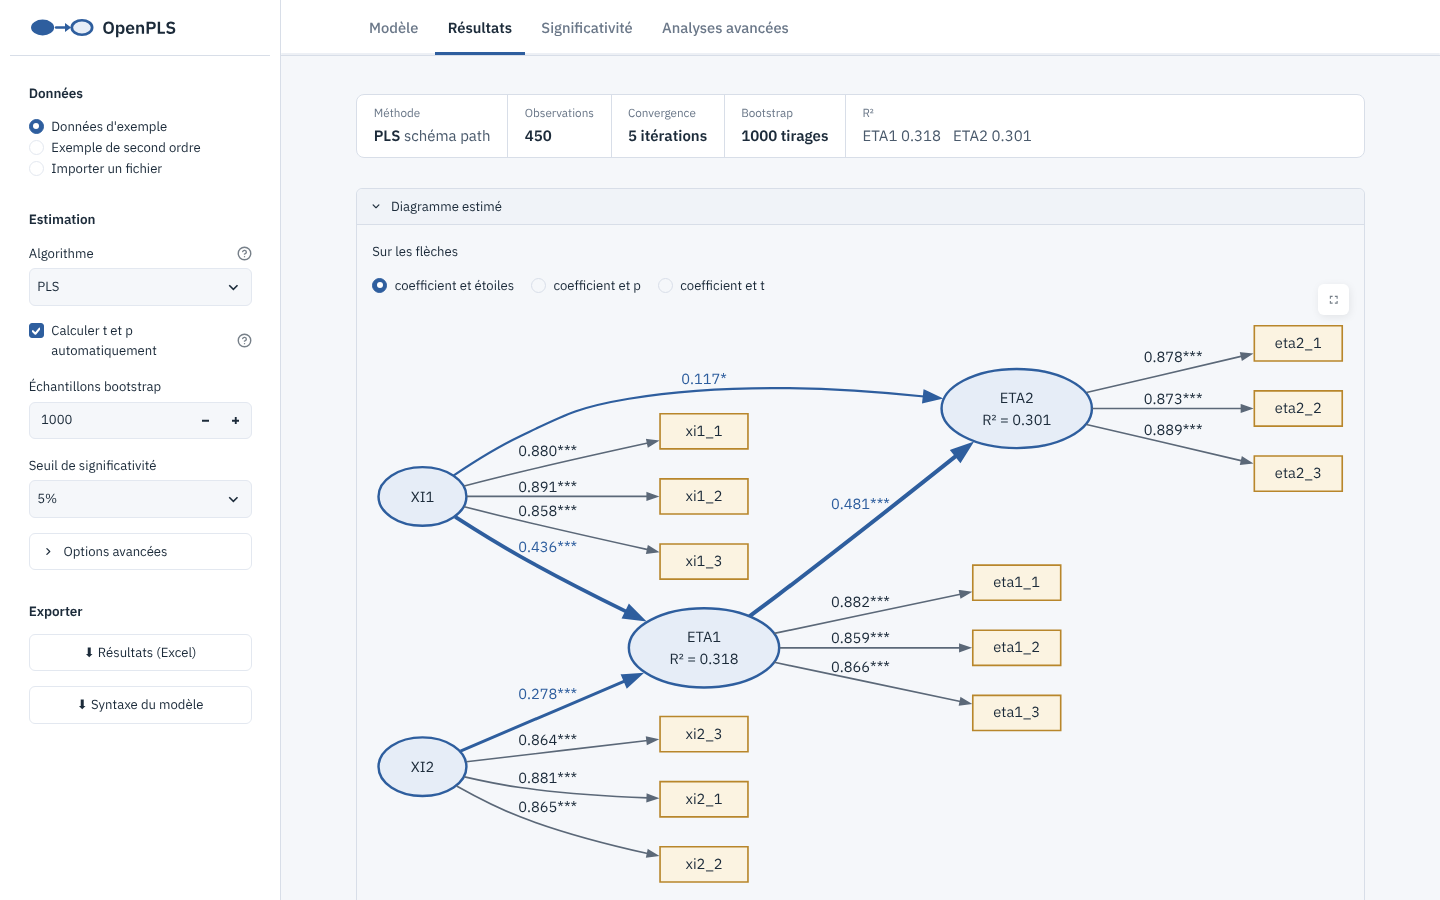
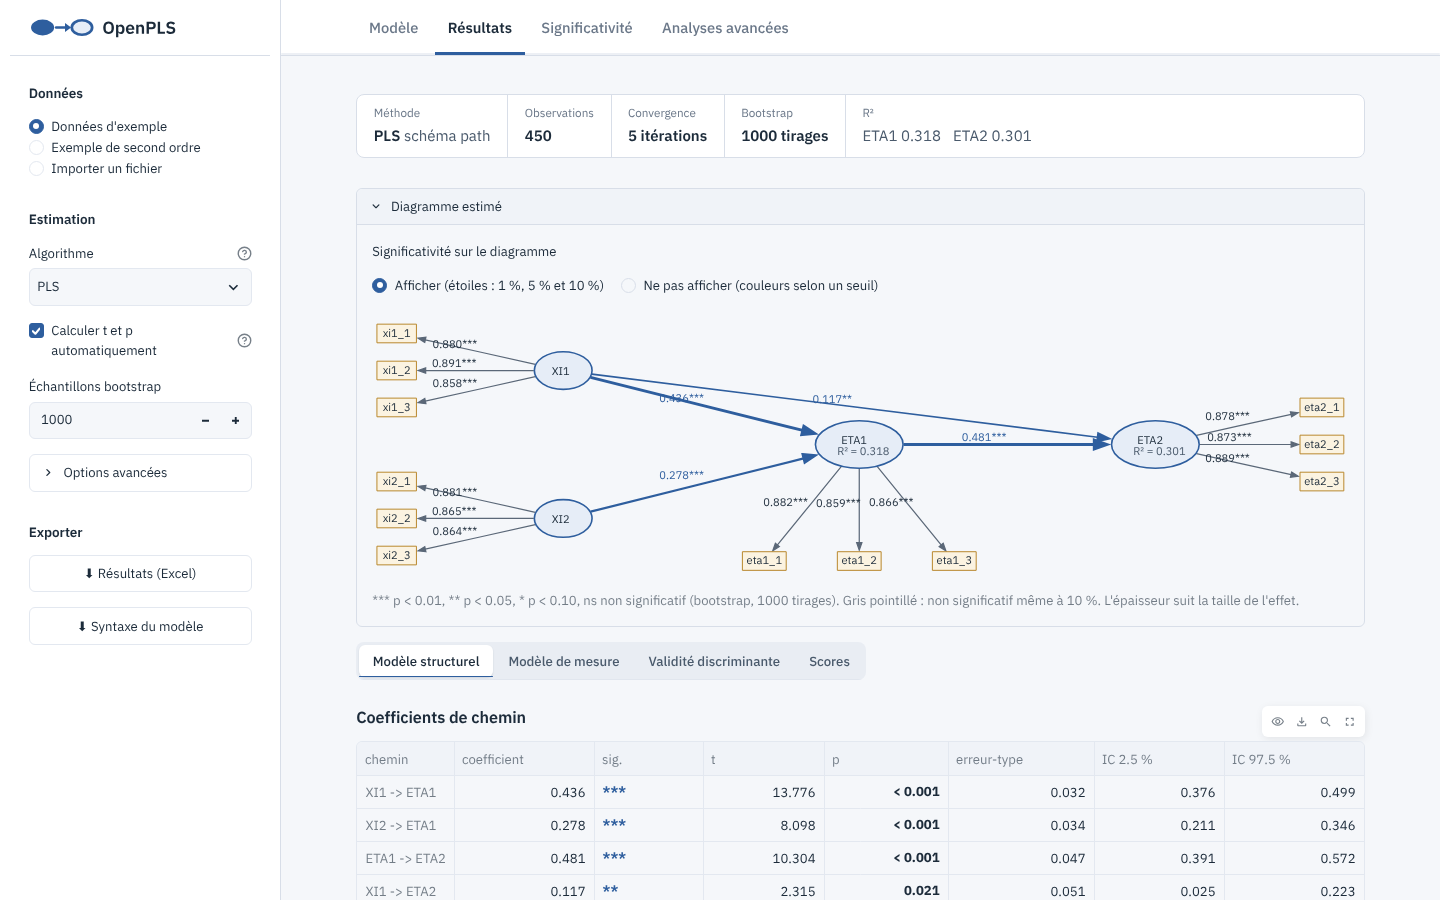
v0.7.4 : indicateurs placés vers le bord le plus proche de leur variable latente
- variables latentes par couches (exogènes à gauche) ou à la disposition de l'éditeur visuel
- indicateurs à gauche, à droite, en haut ou en bas selon le bord le plus proche (Graphviz neato, positions fixées)

Claude-Session: https://claude.ai/code/session_01KYdcZ8kU6SpBA38sNH5jgd

diff --git a/openpls/gui_helpers.py b/openpls/gui_helpers.py
@@ -102,22 +102,129 @@ def _edge_style(value: float, key, boot, alpha: float = 0.05, mode: str = "stars
     return f'color="{c}", fontcolor="{c}"'
 
 
+# ---------------------------------------------------------------- mise en page du diagramme
+# Variables latentes placées par couches (exogènes à gauche) ou aux positions de l'éditeur ;
+# les indicateurs de chaque variable vont du côté du bord le plus proche (gauche, droite, haut, bas),
+# comme dans les diagrammes de PLS-SEM publiés. Unités : points Graphviz (y vers le haut).
+_IND_GAP = 30.0   # écart entre deux indicateurs d'une même pile
+_IND_DIST = 135.0  # distance variable latente -> indicateurs
+
+
+def _ind_width(name: str) -> float:
+    return 7.5 * len(str(name)) + 16.0
+
+
+def _latent_positions(model: Model, positions: dict | None = None) -> dict[str, tuple[float, float]]:
+    lvs = list(model.latents)
+    if positions and all(lv in positions for lv in lvs):
+        # éditeur : pixels, origine en haut à gauche -> points, y vers le haut ; un peu d'air pour les indicateurs
+        return {lv: (1.6 * float(positions[lv][0]), -1.6 * float(positions[lv][1])) for lv in lvs}
+    # couches : plus long chemin depuis les exogènes (composantes avant leur construit d'ordre supérieur)
+    preds: dict[str, set] = {lv: set() for lv in lvs}
+    for a, b in model.structural:
+        if a in preds and b in preds:
+            preds[b].add(a)
+    for hoc, locs in getattr(model, "higher_order", {}).items():
+        for loc in locs:
+            if hoc in preds and loc in preds and hoc not in preds[loc]:
+                preds[hoc].add(loc)
+    layer: dict[str, int] = {}
+
+    def depth(lv, seen=()):
+        if lv in layer:
+            return layer[lv]
+        if lv in seen:  # cycle (non récursif normalement) : on coupe
+            return 0
+        layer[lv] = d = 1 + max((depth(p, seen + (lv,)) for p in preds[lv]), default=-1)
+        return d
+
+    for lv in lvs:
+        depth(lv)
+    cols: dict[int, list[str]] = {}
+    for lv in lvs:  # ordre de déclaration conservé dans chaque couche
+        cols.setdefault(layer[lv], []).append(lv)
+    n_ind = max((len(model.measurement.get(lv, [])) for lv in lvs), default=1)
+    v_gap = max(120.0, n_ind * _IND_GAP + 20.0)
+    h_gap = 2 * _IND_DIST - 30.0
+    pos = {}
+    for c, members in cols.items():
+        for i, lv in enumerate(members):
+            pos[lv] = (c * h_gap, ((len(members) - 1) / 2 - i) * v_gap)
+    return pos
+
+
+def _indicator_sides(pos: dict[str, tuple[float, float]], taken: set[str] = frozenset()) -> dict[str, str]:
+    """Côté (left/right/top/bottom) de chaque variable latente : celui du bord de la feuille le plus proche."""
+    xs, ys = [p[0] for p in pos.values()], [p[1] for p in pos.values()]
+    x0, x1, y0, y1 = min(xs), max(xs), min(ys), max(ys)
+    w, h = max(x1 - x0, 1e-9), max(y1 - y0, 1e-9)
+    sides = {}
+    for lv, (x, y) in pos.items():
+        dl, dr = (x - x0) / w, (x1 - x) / w
+        dt, db = ((y1 - y) / h, (y - y0) / h) if y1 - y0 > 1e-6 else (0.5, 0.5)
+        if x1 - x0 > 1e-6 and min(dl, dr) < 0.25:  # sur une colonne extrême : à gauche ou à droite
+            side = "left" if dl <= dr else "right"
+        else:  # au milieu : vers le haut ou le bas (bas si égalité : les flèches longues passent au-dessus)
+            side = "top" if dt < db else "bottom"
+        if lv in taken and side == "bottom":
+            side = "top"
+        sides[lv] = side
+    return sides
+
+
+def _indicator_positions(center, side: str, names: list[str]) -> dict[str, tuple[float, float]]:
+    cx, cy = center
+    n = len(names)
+    if side in ("left", "right"):
+        x = cx - _IND_DIST if side == "left" else cx + _IND_DIST
+        return {nm: (x, cy + ((n - 1) / 2 - i) * _IND_GAP) for i, nm in enumerate(names)}
+    widths = [_ind_width(nm) for nm in names]
+    total = sum(widths) + 16.0 * (n - 1)
+    y = cy + 0.7 * _IND_DIST if side == "top" else cy - 0.7 * _IND_DIST
+    out, x = {}, cx - total / 2
+    for nm, wd in zip(names, widths):
+        out[nm] = (x + wd / 2, y)
+        x += wd + 16.0
+    return out
+
+
+def _pin(p: tuple[float, float]) -> str:
+    return f'pos="{p[0] / 72:.3f},{p[1] / 72:.3f}!"'  # neato : pos en pouces
+
+
 def model_to_dot(model: Model, res=None, show_indicators: bool = True, boot: pd.DataFrame | None = None,
-                 label_mode: str = "stars", alpha: float = 0.05) -> str:
+                 label_mode: str = "stars", alpha: float = 0.05, positions: dict | None = None,
+                 layout: str = "edges") -> str:
     """Diagramme Graphviz (DOT) du modèle, annoté des estimations si `res` est fourni.
 
     `boot` : tableau de bootstrap_statistics (index (type, nom)) ; les flèches portent alors
     `label_mode` : "stars" = étoiles (1 %, 5 %, 10 % à la fois), non significatif à 10 % en gris pointillé ;
     "colors" = coefficients seuls, vert si significatif au seuil `alpha`, rouge pointillé sinon ; "none" = coefficients seuls.
+    `layout` : "edges" (défaut) = indicateurs placés vers le bord le plus proche de leur variable latente,
+    variables latentes aux `positions` de l'éditeur si fournies, sinon par couches ; "flow" = disposition
+    automatique de Graphviz (de gauche à droite).
     En mode "stars", les flèches sont colorées :
     bleu = positif significatif, rouge = négatif significatif, gris pointillé = non significatif (5 %)."""
     if label_mode == "none":  # coefficients seuls, sans couleur ni pointillés
         boot = None
+    pinned = layout == "edges" and len(model.latents) > 0
+    lv_pos = _latent_positions(model, positions) if pinned else {}
+    ix_targets = {d for _, _, d in getattr(model, "interactions", [])}
+    sides = _indicator_sides(lv_pos, ix_targets) if pinned else {}
+    ind_pos: dict[str, tuple[float, float]] = {}
+    for lv in lv_pos:
+        ind_pos.update(_indicator_positions(lv_pos[lv], sides[lv], list(model.measurement.get(lv, []))))
+
+    def at(node: str, p) -> str:
+        return (", " + _pin(p)) if pinned and p is not None else ""
+
+    head = ('  layout=neato; splines=true; overlap=true; outputorder=edgesfirst; bgcolor="transparent";' if pinned
+            else '  rankdir=LR; splines=true; nodesep=0.25; ranksep=0.9; bgcolor="transparent";')
     lines = [
         "digraph G {",
-        '  rankdir=LR; splines=true; nodesep=0.25; ranksep=0.9; bgcolor="transparent";',
-        '  node [fontname="IBM Plex Sans", fontsize=11, fontcolor="#1C2B3A"];',
-        '  edge [fontname="IBM Plex Sans", fontsize=9, color="#5B6878", fontcolor="#1C2B3A"];',
+        head,
+        '  node [fontname="IBM Plex Sans", fontsize=12, fontcolor="#1C2B3A"];',
+        '  edge [fontname="IBM Plex Sans", fontsize=10, color="#5B6878", fontcolor="#1C2B3A"];',
     ]
     if res is not None:
         from .higher_order import structural_view
@@ -138,21 +245,21 @@ def model_to_dot(model: Model, res=None, show_indicators: bool = True, boot: pd.
         extra = ", peripheries=2" if lv in getattr(model, "higher_order", {}) else ""
         lines.append(  # ellipse ajustée au texte : marge réduite, taille minimale faible
             f'  {_q("lv:" + lv)} [label={label}, shape=ellipse, style=filled, margin="0.10,0.05", '
-            f'width=0.5, height=0.3, fillcolor="#E6EDF7", color="#2E5E9E", penwidth=1.3{extra}];'
+            f'width=0.5, height=0.3, fillcolor="#E6EDF7", color="#2E5E9E", penwidth=1.3{extra}{at(lv, lv_pos.get(lv))}];'
         )
     if show_indicators:
         for lv in model.latents:
             for ind in model.measurement.get(lv, []):
                 lines.append(f'  {_q("mv:" + ind)} [label={_q(ind)}, shape=box, style=filled, '
-                             f'fillcolor="#FBF3E1", color="#B8862B", fontsize=8, margin="0.08,0.03", '
-                             f'width=0.3, height=0.2, penwidth=0.8];')
+                             f'fillcolor="#FBF3E1", color="#B8862B", fontsize=9, margin="0.08,0.03", '
+                             f'width=0.3, height=0.2, penwidth=0.8{at(ind, ind_pos.get(ind))}];')
                 lab = ""
                 if res is not None:
                     if model.modes[lv] == "A":
                         val, key = meas.outer_loadings[(lv, ind)], ("outer_loading", f"{lv} -> {ind}")
                     else:
                         val, key = meas.outer_weights[(lv, ind)], ("outer_weight", f"{ind} -> {lv}")
-                    lab = f", label={_q(_edge_label(val, key, boot, label_mode, alpha))}"
+                    lab = f", label={_q(_edge_label(val, key, boot, label_mode, alpha))}, fontsize=9"
                     sig = _significant(key, boot, label_mode, alpha)
                     if label_mode == "colors" and sig is not None:
                         lab += (f', color="{SIG_GREEN}", fontcolor="{SIG_GREEN}"' if sig
@@ -192,8 +299,11 @@ def model_to_dot(model: Model, res=None, show_indicators: bool = True, boot: pd.
             attrs = _edge_style(v, key, boot, alpha, label_mode) + f", label={_q(_edge_label(v, key, boot, label_mode, alpha))}"
             if boot is None or key not in boot.index:
                 attrs = 'color="#B8862B", fontcolor="#8a6d1f", style=dashed' + f", label={_q(num(v))}"
+        ix_p = None
+        if pinned and d in lv_pos:  # sous la variable expliquée, légèrement à gauche
+            ix_p = (lv_pos[d][0] - 0.45 * _IND_DIST, lv_pos[d][1] - 0.9 * _IND_DIST)
         lines.append(f'  {_q("ix:" + name)} [label={_q(a + " × " + b)}, shape=diamond, style=filled, '
-                     f'fillcolor="#FBF3E1", color="#B8862B", fontsize=9];')
+                     f'fillcolor="#FBF3E1", color="#B8862B", fontsize=9{at(name, ix_p)}];')
         lines.append(f'  {_q("ix:" + name)} -> {_q("lv:" + d)} [{attrs}];')
     lines.append("}")
     return "\n".join(lines)

diff --git a/tests/test_gui.py b/tests/test_gui.py
@@ -313,3 +313,21 @@ def test_separator_follows_language():
     assert separator_for("fr_FR.UTF-8") == "," and separator_for("French_France") == ","
     assert separator_for("de_DE") == "," and separator_for("en_US") == "." and separator_for("English_United States") == "."
     assert separator_for(None) == "."
+
+
+def test_indicators_point_to_nearest_edge():
+    """Indicateurs du côté du bord le plus proche : exogènes à gauche, cible finale à droite, milieu en bas."""
+    import re as _re
+
+    m = Model.from_syntax(SYNTAX.replace("ETA2 ~ ETA1", "ETA2 ~ ETA1 + XI1"))
+    dot = model_to_dot(m, fit(simulate(200, seed=3), m))
+    assert "layout=neato" in dot
+    pos = {n: tuple(map(float, xy.split(","))) for n, xy in _re.findall(r'"(\w+:[\w]+)" \[.*?pos="([-\d.]+,[-\d.]+)!"', dot)}
+    assert pos["mv:xi1_1"][0] < pos["lv:XI1"][0]      # gauche
+    assert pos["mv:eta2_1"][0] > pos["lv:ETA2"][0]    # droite
+    assert pos["mv:eta1_1"][1] < pos["lv:ETA1"][1]    # au milieu : en bas
+    # positions de l'éditeur : ETA1 tout en haut -> ses indicateurs au-dessus
+    ed = {"XI1": (0, 200), "XI2": (0, 400), "ETA1": (300, 0), "ETA2": (600, 300)}
+    dot = model_to_dot(m, positions=ed)
+    pos = {n: tuple(map(float, xy.split(","))) for n, xy in _re.findall(r'"(\w+:[\w]+)" \[.*?pos="([-\d.]+,[-\d.]+)!"', dot)}
+    assert pos["mv:eta1_1"][1] > pos["lv:ETA1"][1]

diff --git a/openpls/app.py b/openpls/app.py
@@ -392,7 +392,7 @@ with page_model:
 
     with right:
         if model is not None:
-            st.graphviz_chart(model_to_dot(model, res, boot=boot, label_mode=label_mode, alpha=alpha), width="stretch")
+            st.graphviz_chart(model_to_dot(model, res, positions=st.session_state.get("editor_pos"), boot=boot, label_mode=label_mode, alpha=alpha), width="stretch")
             if res is None:
                 st.caption("Clique sur « Estimer le modèle » pour afficher les estimations sur le diagramme.")
 
@@ -443,7 +443,7 @@ with page_res:
                               "le gras des tableaux et les intervalles de confiance.")
                 alpha = st.session_state["alpha"]
         _mode = st.session_state.get("sig_view", "stars")
-        st.graphviz_chart(model_to_dot(model, res, boot=boot, label_mode=_mode,
+        st.graphviz_chart(model_to_dot(model, res, positions=st.session_state.get("editor_pos"), boot=boot, label_mode=_mode,
                                        alpha=alpha),
                           width="stretch")
         if boot is not None and _mode == "colors":

diff --git a/openpls/__init__.py b/openpls/__init__.py
@@ -18,4 +18,4 @@ __all__ = [
     "quality_criteria", "fornell_larcker", "htmt", "f_squared",
     "total_effects", "total_indirect_effects", "specific_indirect_effects", "mediation_analysis",
 ]
-__version__ = "0.7.3"
+__version__ = "0.7.4"

diff --git a/README.md b/README.md
@@ -81,7 +81,7 @@ Le navigateur s'ouvre sur `http://localhost:8501`. Ensuite :
 4. L'onglet **Significativité** détaille le bootstrap et l'analyse de médiation ; l'onglet **Analyses avancées** regroupe PLSpredict/CVPAT, MGA/MICOM, IPMA, NCA, endogénéité, CB-SEM/CFA et FIMIX-PLS.
 5. Exporte tous les résultats en Excel depuis la barre latérale.
 
-Les nombres s'affichent avec une virgule (0,318) ou un point (0.318) selon la langue choisie à l'installation (ou celle du système) ; le réglage se change dans *Options avancées*. Au-dessus du diagramme des résultats, deux choix : **afficher** la significativité, avec des étoiles qui donnent les trois seuils à la fois (*** p < 0,01, ** p < 0,05, * p < 0,10), ou **ne pas l'afficher** et choisir un seul seuil (1 %, 5 % ou 10 %) : les flèches significatives sont alors vertes, les autres rouges. Changer de seuil ne relance pas le bootstrap. Le bootstrap n'est pas obligatoire : décoche « Calculer t et p automatiquement » pour obtenir les coefficients seuls, plus vite.
+Les nombres s'affichent avec une virgule (0,318) ou un point (0.318) selon la langue choisie à l'installation (ou celle du système) ; le réglage se change dans *Options avancées*. Au-dessus du diagramme des résultats, deux choix : **afficher** la significativité, avec des étoiles qui donnent les trois seuils à la fois (*** p < 0,01, ** p < 0,05, * p < 0,10), ou **ne pas l'afficher** et choisir un seul seuil (1 %, 5 % ou 10 %) : les flèches significatives sont alors vertes, les autres rouges. Changer de seuil ne relance pas le bootstrap. Sur le diagramme, les indicateurs de chaque variable latente se placent du côté du bord le plus proche (à gauche pour les variables de gauche, à droite pour celles de droite, en haut ou en bas pour celles du milieu). Si tu as disposé le modèle dans l'éditeur visuel, le diagramme reprend ta disposition. Le bootstrap n'est pas obligatoire : décoche « Calculer t et p automatiquement » pour obtenir les coefficients seuls, plus vite.
 
 La barre du haut (logo et onglets Modèle, Résultats, Significativité, Analyses avancées) reste visible quand tu fais défiler la page. Après l'estimation, un bandeau résume la méthode, la taille de l'échantillon, la convergence, le bootstrap et les R².
 
